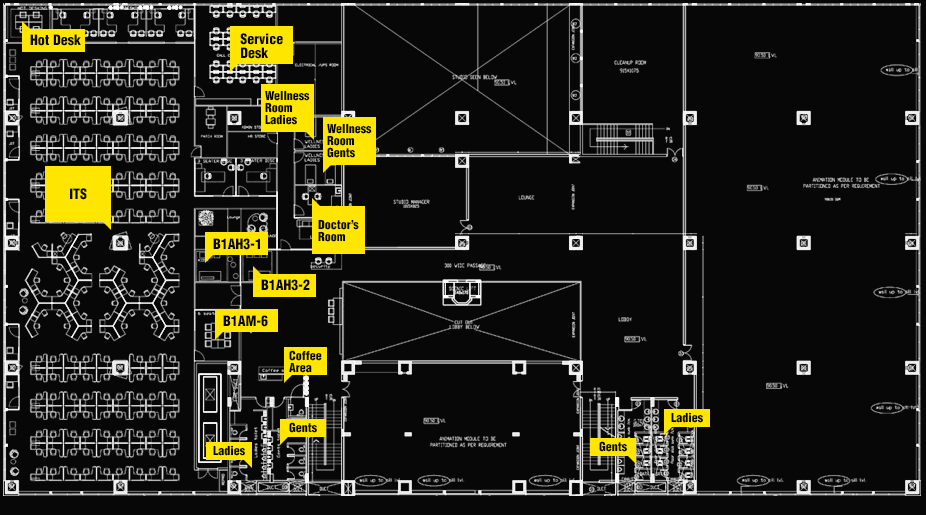
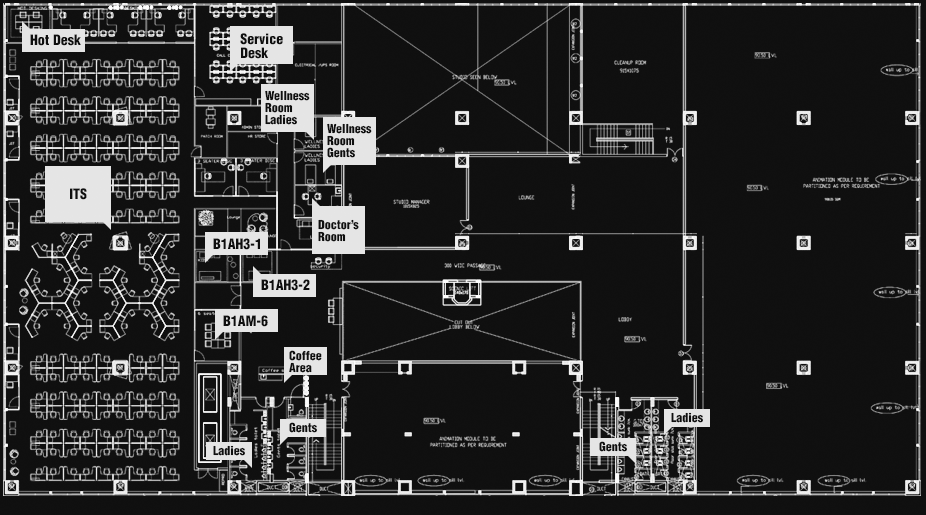
new_edit

diff --git a/Floor_maps/index.html b/Floor_maps/index.html
@@ -9,7 +9,7 @@
       }
       #container {
         background-color: black;
-        background-image: url("ey.png");
+        background-image: url("ey2.png");
         background-position: 1px 0px;
         background-repeat: no-repeat;
         width: 580px;
@@ -17,16 +17,16 @@
         float:left; 
       }
       #container2 {
-        background-color: red;
+        background-color: gray;
         background-position: 1px 0px;
         background-repeat: no-repeat;
         width: 580px;
         height: 327px;
-        float:right; 
+        float: right;
       }
       #topcontainer
       {
-          background-color: yellow;
+        background-color: yellow;
         background-repeat: no-repeat;
         width: 100%;
         height: 327px;
@@ -35,7 +35,7 @@
   </head>
   <body>
    
-    <div id="container"></div><div id="container2"></div>
+    <div id="container"></div><canvas id="container2"></canvas>
    
  
     <script src="http://d3lp1msu2r81bx.cloudfront.net/kjs/js/lib/kinetic-v5.0.1.min.js"></script>
@@ -44,15 +44,15 @@
         return {
           '1st Floor': {
             color: 'blue',
-            points: [  44,179,43,158, 415,235, 529,204, 528,232, 414,269]
+            points: [49,197,49,179, 378,246, 526,210, 524,235, 377,277]
           },
           '2nd Floor': {
             color: 'red',
-            points: [415,235,529,204,528,173,415,199,41,138,44,158]
+            points: [49,179,47,162,380,216,528,185,526,208,378,246]
           },
           '3rd Floor': {
             color: 'yellow',
-            points: [415,199,528,173,530,143,416,166,41,117,41,138]
+            points: [47,162,46,143,382,181,530,159,528,183,380,214]
           }
         }
       }
@@ -61,6 +61,8 @@
         tooltip.position({x:x, y:y});
         tooltip.show();
       }
+
+
       var stage = new Kinetic.Stage({
         container: 'container',
         width: 578,
@@ -157,12 +159,21 @@
         var shape = evt.targetNode;
         if (shape) {
           console.log("clicked" + shape.getAttr('key'));
+          var can = document.getElementById('container2');
+          var ctx = can.getContext('2d');
+          var img = new Image();
+          img.onload = function(){
+              can.width = img.width;
+              can.height = img.height;
+              ctx.drawImage(img, 0, 0, img.width, img.height);
+          }
+
           if(shape.getAttr('key')=="1st Floor")
-                document.getElementById("container2").style.backgroundImage = "url('base.png')";
+                img.src="base.png"
           else if(shape.getAttr('key')=="2nd Floor")
-                document.getElementById("container2").style.backgroundImage = "url('gf.png')";
+                img.src="gf.png"
           else if(shape.getAttr('key')=="3rd Floor")
-                document.getElementById("container2").style.backgroundImage = "url('ff.png')";
+                img.src="ff.png";
           
           else
              document.getElementById("container2").style.backgroundImage = "";

diff --git a/Floor_maps/mouse.html b/Floor_maps/mouse.html
@@ -8,7 +8,7 @@
       }
       #myCanvas
       {
-        background: url('./ey.png');
+        background: url('./ey2.png');
       }
     </style>
   </head>
